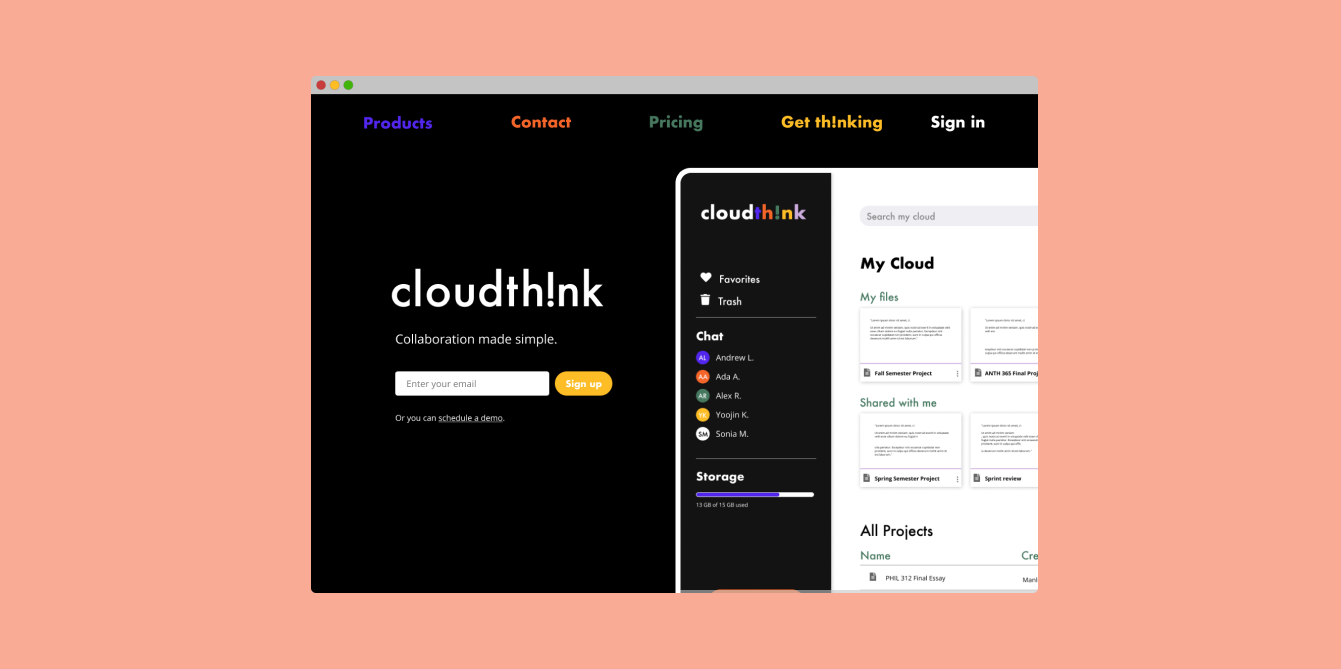
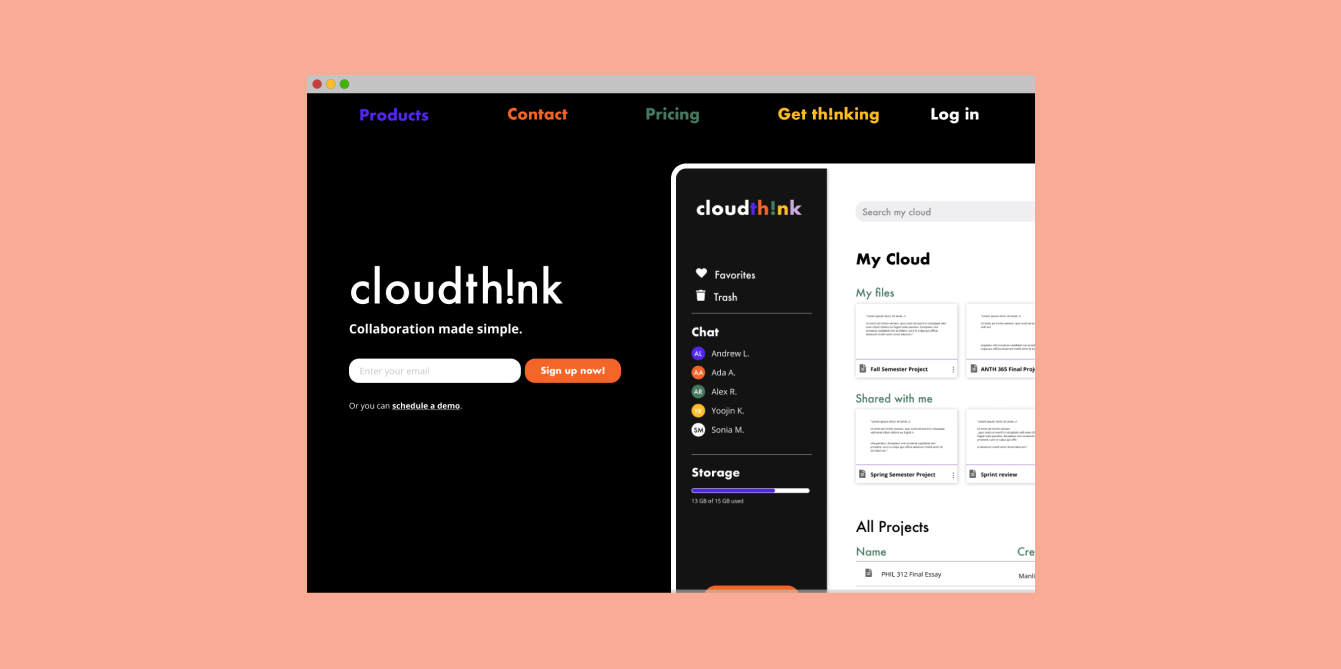
changes to cloudthink

diff --git a/cloudthink.html b/cloudthink.html
@@ -184,10 +184,9 @@
                   <li>addition of feature that allows users to see who’s working on documents live</li>
                </ul>
                <p>Now, neither people nor documents will get lost in the mix.</p>
-               <img src="images/app_landing_page_FINAL.png" alt="final mockup of app landing page" class="project-img">
-               <img src="images/app_onboarding_FINAL.png" alt="final mockup of onboarding" class="project-img">
+               <img src="images/cloudthink_solution_img.png" alt="final mockup of app landing page" class="project-img">
                <img src="images/my_cloud_account_FINAL.png" alt="final mockup of my cloud account" class="project-img">
-               <img src="images/document_FINAL.png" alt="final mockup of document" class="project-img">
+               <img src="images/cloudthink_file_menu.png" alt="final mockup of my cloud account" class="project-img">
                <p>With cloudth!nk, cloud collaboration can be fun and social, without sacrificing efficiency and clean organization.</p>
             </div>
             <div class="project-step-content">

diff --git a/index.html b/index.html
@@ -103,7 +103,6 @@
                <img src="images/cloudthink.png" alt="cloudth!nk" class="image">
                <a href="cloudthink.html">
                <div class="overlay" style="background-color:#F4653D">
-
                  <div class="text">
                    <h2>cloudth!nk</h2>
                    <h3>Collaboration made simple</h3>
